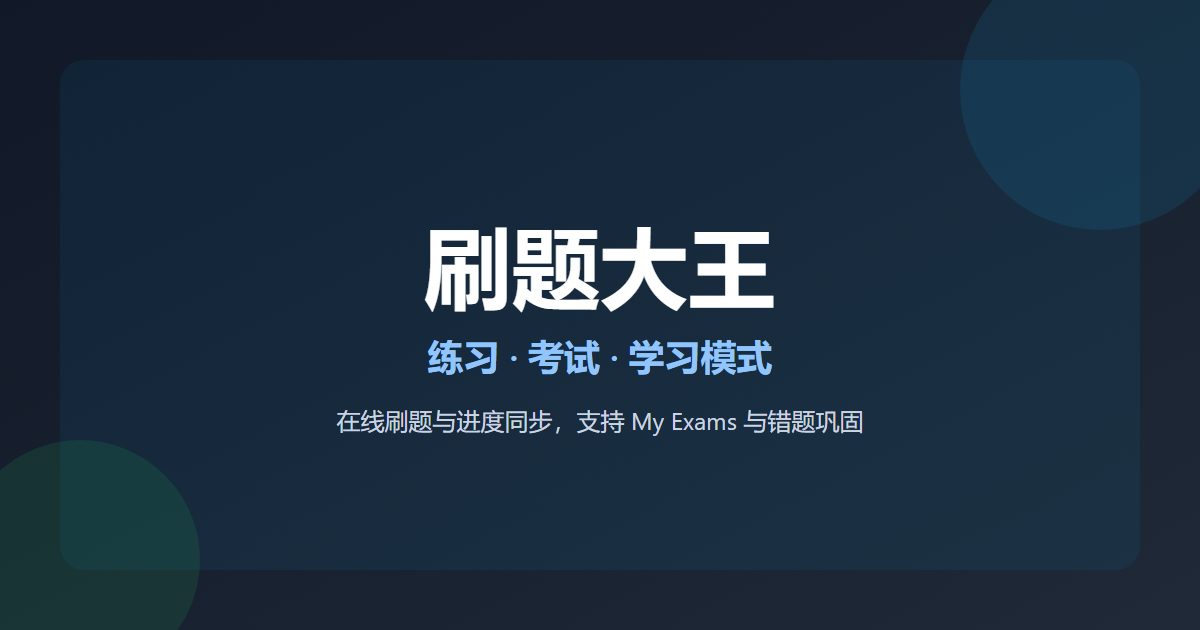
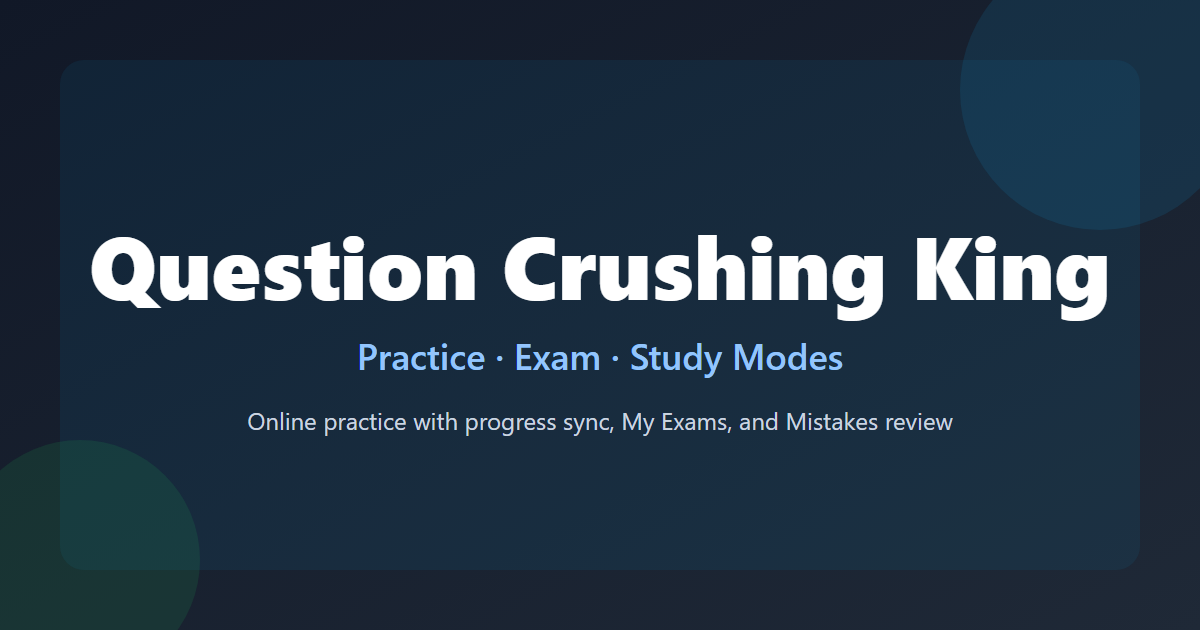
chore(meta): switch site metadata to English; regenerate share image PNG

Changed region(s): [[0.0617, 0.3619, 0.925, 0.5127], [0.2158, 0.6333, 0.8017, 0.6937], [0.2775, 0.5429, 0.7092, 0.6032]]

diff --git a/index.html b/index.html
@@ -1,45 +1,45 @@
 <!doctype html>
-<html lang="zh-CN">
+<html lang="en">
   <head>
     <meta charset="UTF-8" />
     <link rel="icon" type="image/svg+xml" href="/images/favicon.svg" />
     <meta name="viewport" content="width=device-width, initial-scale=1.0" />
 
     <!-- Primary Meta Tags -->
-    <title>刷题大王</title>
-    <meta name="title" content="刷题大王" />
+    <title>Question Crushing King</title>
+    <meta name="title" content="Question Crushing King" />
     <meta
       name="description"
-      content="刷题大王：在线刷题与考试练习平台，支持练习、考试、学习模式。"
+      content="Online practice and exam study platform. Supports Practice, Exam, and Study modes."
     />
 
     <!-- Open Graph / Facebook -->
     <meta property="og:type" content="website" />
     <meta property="og:url" content="/" />
-    <meta property="og:title" content="刷题大王" />
+    <meta property="og:title" content="Question Crushing King" />
     <meta
       property="og:description"
-      content="刷题大王：在线刷题与考试练习平台，支持练习、考试、学习模式。"
+      content="Online practice and exam study platform. Supports Practice, Exam, and Study modes."
     />
     <meta
       property="og:image"
       content="/images/twitter-card.png"
     />
-    <meta property="og:image:alt" content="刷题大王 分享图" />
+    <meta property="og:image:alt" content="Question Crushing King share image" />
 
     <!-- Twitter -->
     <meta property="twitter:card" content="summary_large_image" />
     <meta property="twitter:url" content="/" />
-    <meta property="twitter:title" content="刷题大王" />
+    <meta property="twitter:title" content="Question Crushing King" />
     <meta
       property="twitter:description"
-      content="刷题大王：在线刷题与考试练习平台，支持练习、考试、学习模式。"
+      content="Online practice and exam study platform. Supports Practice, Exam, and Study modes."
     />
     <meta
       property="twitter:image"
       content="/images/twitter-card.png"
     />
-    <meta name="twitter:image:alt" content="刷题大王 分享图" />
+    <meta name="twitter:image:alt" content="Question Crushing King share image" />
 
     <!-- font family -->
     <link rel="preconnect" href="https://fonts.googleapis.com" />
